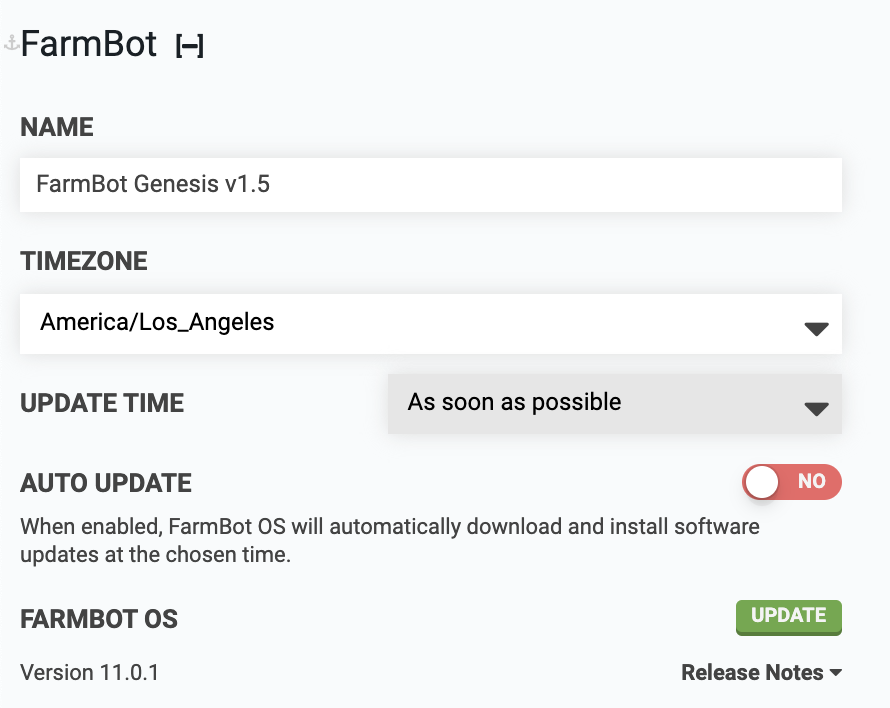
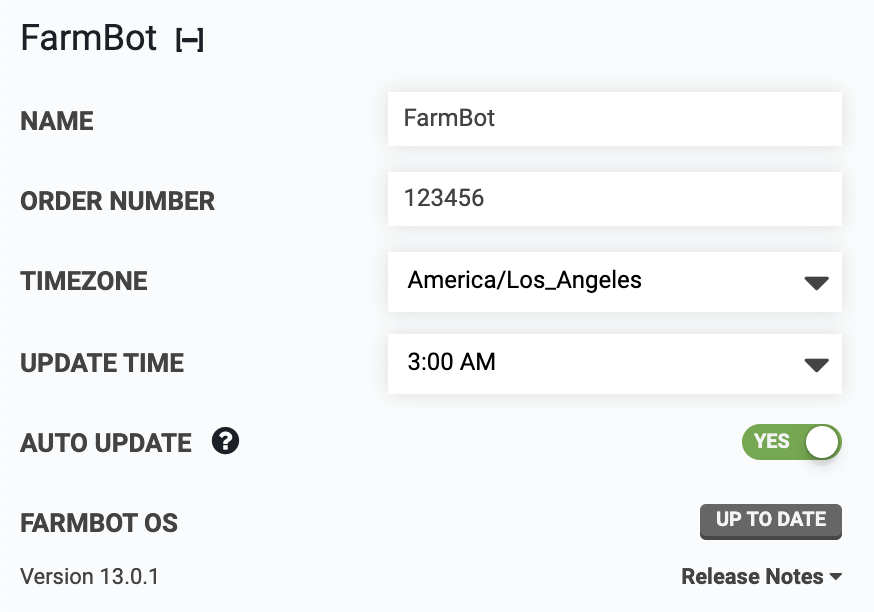
help panel and order number

diff --git a/v13/The-FarmBot-Web-App/help.md b/v13/The-FarmBot-Web-App/help.md
@@ -1,0 +1,41 @@
+---
+title: "Help"
+slug: "help"
+description: "Get help with setting up and using the web app \n[Open in the app](https://my.farm.bot/app/designer/help)"
+---
+
+* toc
+{:toc}
+
+The **help panel** is full of resources for you to learn how to use the web app, troubleshoot issues with your FarmBot, and get help. To navigate between the various resources, click the dropdown menu at the top of the panel.
+
+![help menu](_images/help_menu.png)
+
+# Documentation
+
+All of our documentation hubs are available in the help panel for quick in-app reference. If you would like to read through the documentation independently from the app, simply open up a new browser tab to [docs.farm.bot](https://docs.farm.bot) and choose the hub you wish to view.
+
+# Tours
+
+Select **take a tour** to view and launch the available guided tours. This is a great way for new users to become familiar with the app, or to brush up on how to do things if you haven't logged in since the last growing season.
+
+# Get help
+
+If you're having problems with your FarmBot or the web app, we're here to help. Simply open up the **get help** panel to email us, submit product feedback right from the app, or navigate to the community forum.
+
+{%
+include callout.html
+type="success"
+title="Register your product"
+content="We prioritize supporting users who have [registered their original **ORDER NUMBER**](settings/farmbot-settings.md#order-number) with their app account.
+
+If you did not purchase hardware from [farm.bot](https://farm.bot) then official support may be limited."
+%}
+
+![get help](_images/get_help.png)
+
+# Hotkeys
+
+Opens the **hotkeys** guide.
+
+![hotkeys guide](_images/hotkeys.png)

diff --git a/v13/The-FarmBot-Web-App/settings/farmbot-settings.md b/v13/The-FarmBot-Web-App/settings/farmbot-settings.md
@@ -14,6 +14,17 @@ description: "Device name and software updates.\n[Open these settings in the app
 
 Give your FarmBot a fun name. For example: `Broccoli Overlord` 🥦 🤖
 
+# Order number
+
+By registering your original FarmBot **ORDER NUMBER** with your web app account you will receive prioritized help should you run into any issues.
+
+{%
+include callout.html
+type="warning"
+title=""
+content="We have limited capacity to help users of the app that did not purchase hardware from [farm.bot](https://farm.bot)."
+%}
+
 # Timezone
 
 Set the device's timezone.
